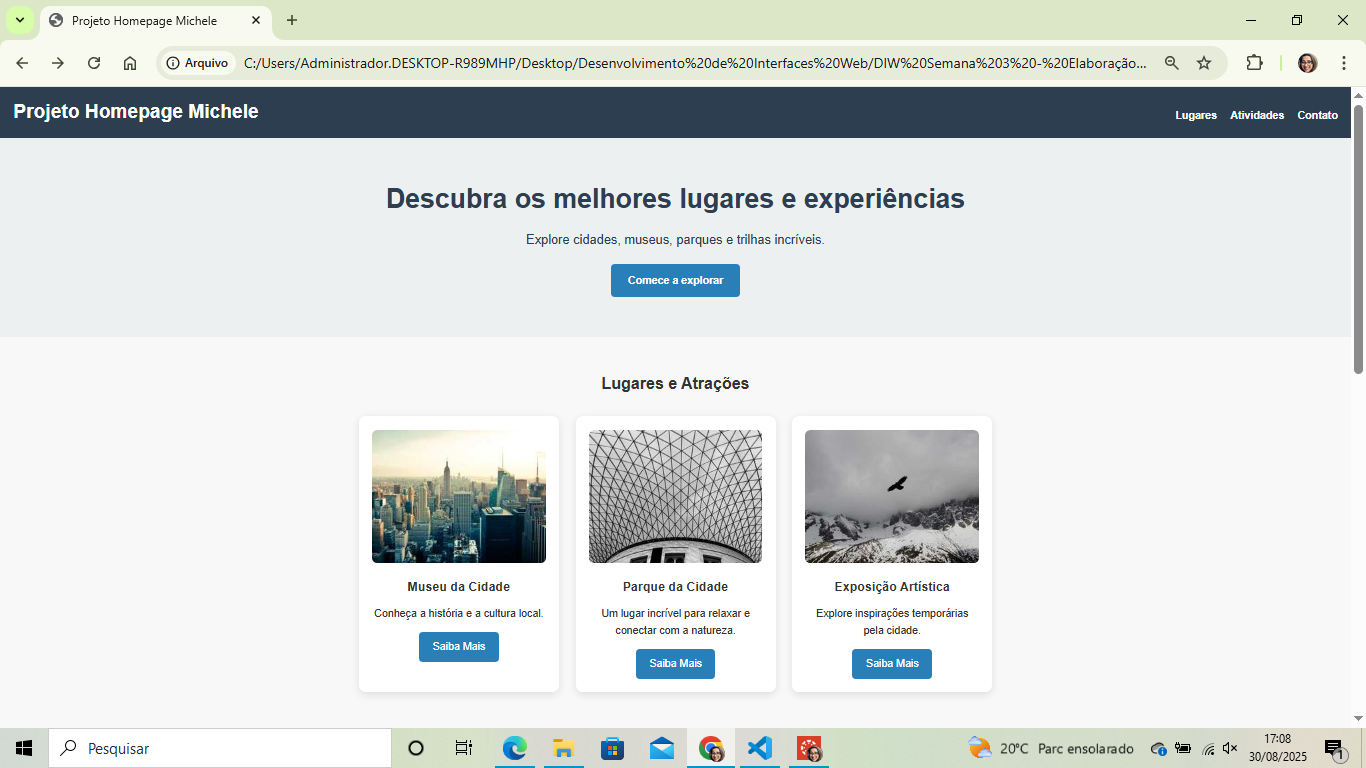
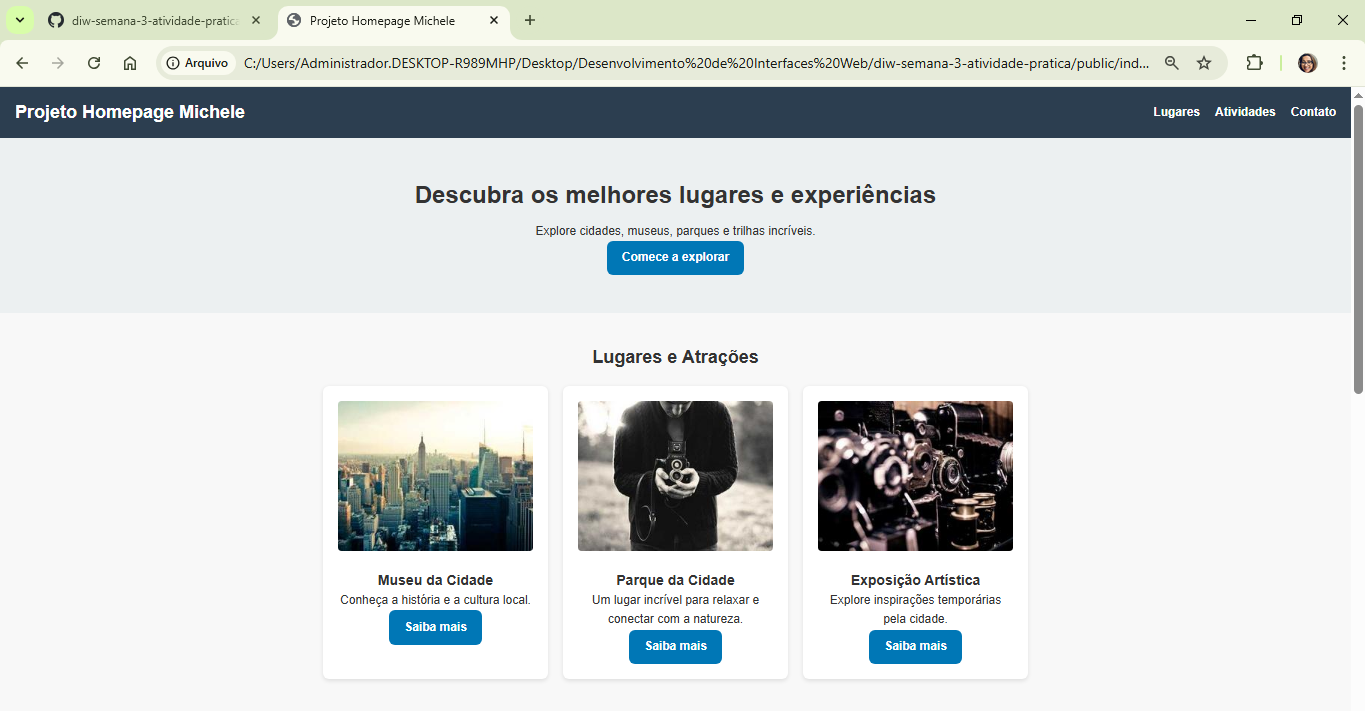
Alteracoes feitas na homepage

diff --git a/public/index.html b/public/index.html
@@ -9,11 +9,11 @@
 </head>
 
 <body>
+    <!-- Cabeçalho -->
     <header>
         <h1>Projeto Homepage Michele</h1>
         <nav>
             <ul>
-                <li><a href="index.html">Home</a></li>
                 <li><a href="#lugares">Lugares</a></li>
                 <li><a href="#atividades">Atividades</a></li>
                 <li><a href="#contato">Contato</a></li>
@@ -23,12 +23,12 @@
 
     <!-- Seção de Introdução -->
     <section class="intro">
-        <h2 class="titulo-principal">Descubra os melhores lugares e experiências</h2>
-        <p class="subtitulo">Explore cidades, museus, parques e trilhas incríveis.</p>
+        <h2>Descubra os melhores lugares e experiências</h2>
+        <p>Explore cidades, museus, parques e trilhas incríveis.</p>
         <a href="#lugares" class="btn">Comece a explorar</a>
     </section>
 
-    <!-- Lugares -->
+    <!-- Lugares e Atrações -->
     <section id="lugares">
         <h2>Lugares e Atrações</h2>
         <div class="cards">
@@ -36,24 +36,24 @@
                 <img src="https://picsum.photos/300/200?random=1" alt="Museu da Cidade">
                 <h3>Museu da Cidade</h3>
                 <p>Conheça a história e a cultura local.</p>
-                <a href="museu.html" class="btn-card">Saiba Mais</a>
+                <a href="#" class="btn">Saiba mais</a>
             </div>
             <div class="card">
                 <img src="https://picsum.photos/300/200?random=2" alt="Parque da Cidade">
                 <h3>Parque da Cidade</h3>
                 <p>Um lugar incrível para relaxar e conectar com a natureza.</p>
-                <a href="parque.html" class="btn-card">Saiba Mais</a>
+                <a href="#" class="btn">Saiba mais</a>
             </div>
             <div class="card">
                 <img src="https://picsum.photos/300/200?random=3" alt="Exposição Artística">
                 <h3>Exposição Artística</h3>
                 <p>Explore inspirações temporárias pela cidade.</p>
-                <a href="exposicao.html" class="btn-card">Saiba Mais</a>
+                <a href="#" class="btn">Saiba mais</a>
             </div>
         </div>
     </section>
 
-    <!-- Atividades -->
+    <!-- Atividades e Eventos -->
     <section id="atividades">
         <h2>Atividades e Eventos</h2>
         <div class="cards">
@@ -61,13 +61,13 @@
                 <img src="https://picsum.photos/300/200?random=4" alt="Trilha Guiada">
                 <h3>Trilha Guiada</h3>
                 <p>Descubra trilhas incríveis com guia especializado.</p>
-                <a href="trilha.html" class="btn-card">Saiba Mais</a>
+                <a href="#" class="btn">Saiba mais</a>
             </div>
             <div class="card">
                 <img src="https://picsum.photos/300/200?random=5" alt="Workshop de Arte">
                 <h3>Workshop de Arte</h3>
                 <p>Participe de oficinas criativas para todas as idades.</p>
-                <a href="workshop.html" class="btn-card">Saiba Mais</a>
+                <a href="#" class="btn">Saiba mais</a>
             </div>
         </div>
     </section>
@@ -75,22 +75,15 @@
     <!-- Contato -->
     <section id="contato">
         <h2>Entre em Contato</h2>
-        <p>Preencha o formulário abaixo para entrar em contato:</p>
-
-        <form action="#" method="post" class="form-contato">
-            <label for="nome">Nome:</label>
-            <input type="text" id="nome" name="nome" required>
-
-            <label for="email">E-mail:</label>
-            <input type="email" id="email" name="email" required>
-
-            <label for="mensagem">Mensagem:</label>
-            <textarea id="mensagem" name="mensagem" rows="5" required></textarea>
-
+        <form>
+            <input type="text" placeholder="Seu nome" required>
+            <input type="email" placeholder="Seu e-mail" required>
+            <textarea placeholder="Sua mensagem" required></textarea>
             <button type="submit">Enviar</button>
         </form>
     </section>
 
+    <!-- Rodapé -->
     <footer>
         <p>© 2025 Projeto Homepage Michele - Todos os direitos reservados.</p>
     </footer>

diff --git a/public/style.css b/public/style.css
@@ -6,28 +6,34 @@
     font-family: Arial, Helvetica, sans-serif;
 }
 
+body {
+    line-height: 1.6;
+    background-color: #f8f8f8;
+    color: #333;
+}
+
 /* Cabeçalho */
 header {
-    background: #333;
-    color: #fff;
-    padding: 15px;
-    text-align: center;
+    background: #2c3e50;
+    color: white;
+    padding: 15px 20px;
+    display: flex;
+    justify-content: space-between;
+    align-items: center;
 }
 
 header h1 {
-    margin-bottom: 10px;
-    font-size: 24px;
+    font-size: 1.5rem;
 }
 
 nav ul {
     list-style: none;
     display: flex;
-    justify-content: center;
     gap: 20px;
 }
 
 nav a {
-    color: #fff;
+    color: white;
     text-decoration: none;
     font-weight: bold;
 }
@@ -36,118 +42,113 @@ nav a:hover {
     text-decoration: underline;
 }
 
-/* Seções */
+/* Seção Introdução */
+.intro {
+    text-align: center;
+    padding: 50px 20px;
+    background: #ecf0f1;
+}
+
+.intro h2 {
+    font-size: 2rem;
+    margin-bottom: 10px;
+}
+
+/* Estilo para botões */
+.btn {
+    display: inline-block;
+    padding: 10px 20px;
+    background-color: #0077b6;
+    /* azul bonito */
+    color: #fff;
+    text-decoration: none;
+    border-radius: 8px;
+    font-weight: bold;
+    transition: background-color 0.3s ease, transform 0.2s ease;
+}
+
+/* Efeito ao passar o mouse */
+.btn:hover {
+    background-color: #023e8a;
+    /* azul mais escuro */
+    transform: scale(1.05);
+    /* dá um leve zoom */
+}
+
+/* Seções gerais */
 section {
     padding: 40px 20px;
+}
+
+h2 {
     text-align: center;
-}
-
-.intro {
-    background: #f4f4f4;
-    padding: 60px 20px;
-}
-
-.titulo-principal {
-    font-size: 28px;
-    margin-bottom: 15px;
-}
-
-.subtitulo {
     margin-bottom: 20px;
-    color: #555;
-}
-
-/* Botões */
-.btn,
-.btn-card,
-.btn-voltar {
-    display: inline-block;
-    margin-top: 10px;
-    padding: 10px 15px;
-    background: #0077cc;
-    color: #fff;
-    border-radius: 5px;
-    text-decoration: none;
-    transition: background 0.3s;
-}
-
-.btn:hover,
-.btn-card:hover,
-.btn-voltar:hover {
-    background: #005fa3;
 }
 
 /* Cards */
 .cards {
     display: flex;
     justify-content: center;
-    flex-wrap: wrap;
     gap: 20px;
+    flex-wrap: wrap;
 }
 
 .card {
-    border: 1px solid #ddd;
-    border-radius: 8px;
+    background: white;
+    padding: 20px;
     width: 300px;
-    padding: 15px;
+    border-radius: 8px;
+    box-shadow: 0 2px 6px rgba(0, 0, 0, 0.1);
     text-align: center;
-    background: #fff;
+    transition: transform 0.2s ease-in-out;
+}
+
+.card:hover {
+    transform: translateY(-5px);
 }
 
 .card img {
-    max-width: 100%;
+    width: 100%;
+    height: 200px;
+    object-fit: cover;
     border-radius: 5px;
+    margin-bottom: 15px;
 }
 
-/* Conteúdo das páginas internas */
-.conteudo-pagina {
-    max-width: 800px;
-    margin: 40px auto;
-    padding: 20px;
-    text-align: center;
-}
-
-.conteudo-pagina img {
-    max-width: 100%;
-    margin: 20px 0;
-    border-radius: 10px;
-}
-
-/* Formulário */
-.form-contato {
+/* Formulário de contato */
+form {
     max-width: 500px;
     margin: 0 auto;
-    text-align: left;
     display: flex;
     flex-direction: column;
-    gap: 10px;
+    gap: 15px;
 }
 
-.form-contato input,
-.form-contato textarea {
+input,
+textarea {
     padding: 10px;
     border: 1px solid #ccc;
     border-radius: 5px;
 }
 
-.form-contato button {
+button {
     padding: 10px;
-    background: #0077cc;
-    color: #fff;
+    background: #27ae60;
+    color: white;
     border: none;
     border-radius: 5px;
     cursor: pointer;
 }
 
-.form-contato button:hover {
-    background: #005fa3;
+button:hover {
+    background: #1e8449;
 }
 
 /* Rodapé */
 footer {
-    background: #333;
-    color: #fff;
+    background: #2c3e50;
+    color: white;
     text-align: center;
     padding: 15px;
-    margin-top: 40px;
+    margin-top: 30px;
 }
